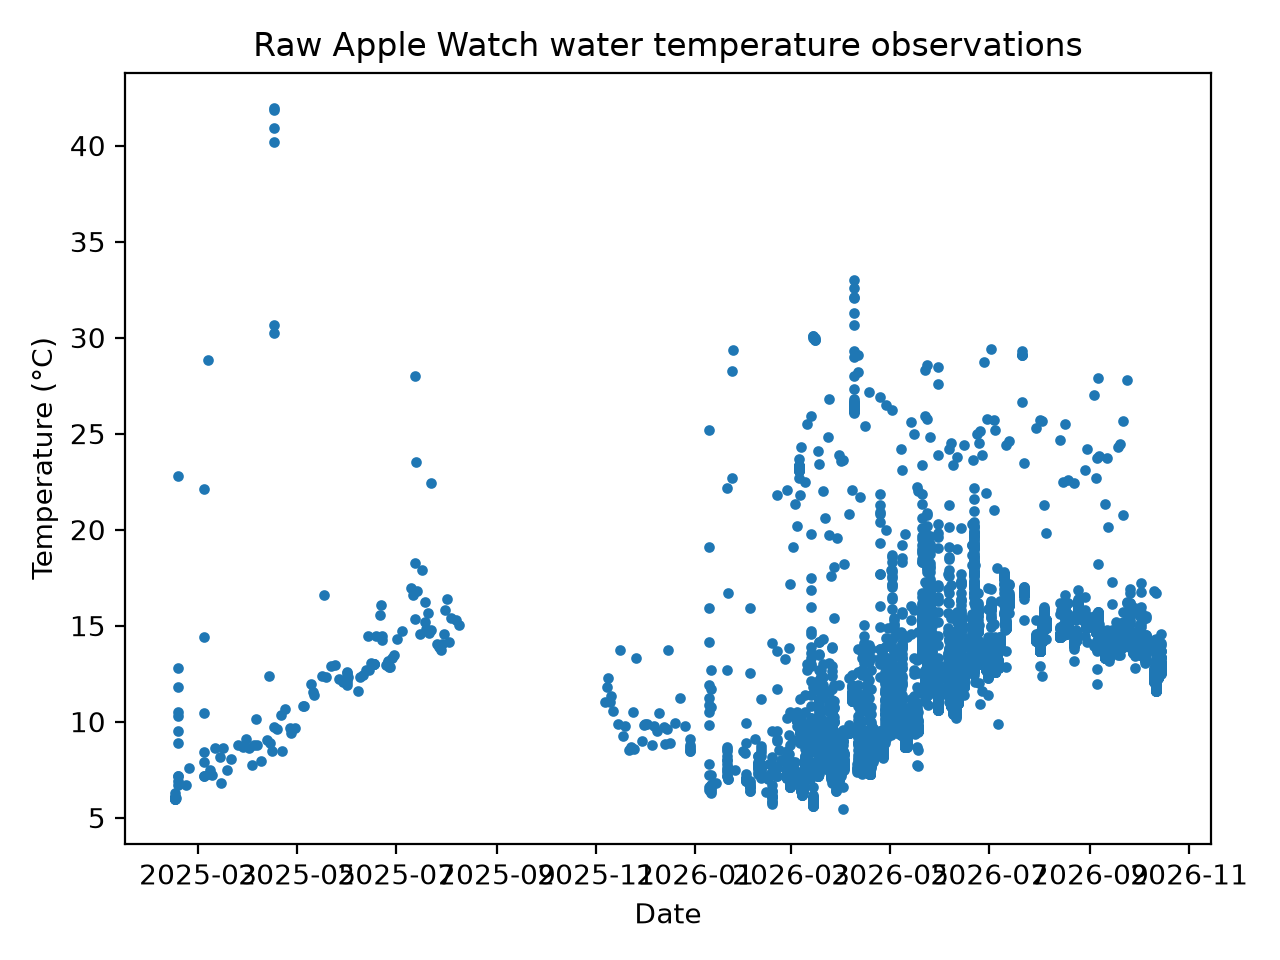
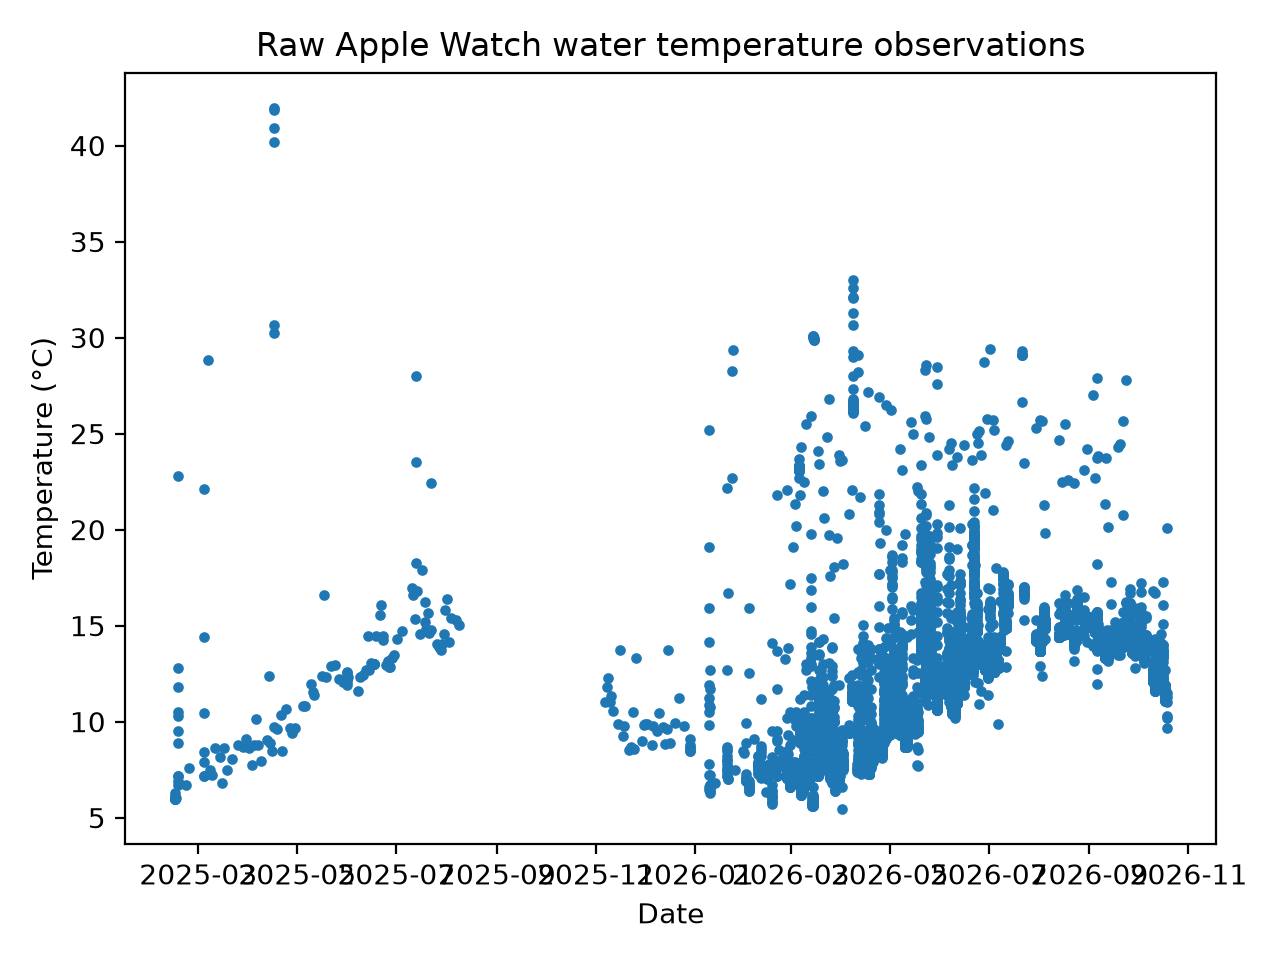
Add Apple Health merge step for smartwatch data and ipdate smartwatch report

diff --git a/smartwatch.html b/smartwatch.html
@@ -65,12 +65,12 @@ a {
 <h2>Dataset overview</h2>
 <table>
 <tr><th>Metric</th><th>Value</th></tr>
-<tr><td>Raw water temperature observations</td><td>9,477</td></tr>
-<tr><td>Observation period</td><td>2025-02-14 to 2026-10-14</td></tr>
-<tr><td>Sessions using 30-minute gap rule</td><td>315</td></tr>
+<tr><td>Raw water temperature observations</td><td>9,630</td></tr>
+<tr><td>Observation period</td><td>2025-02-14 to 2026-10-18</td></tr>
+<tr><td>Sessions using 30-minute gap rule</td><td>318</td></tr>
 <tr><td>Single-observation sessions</td><td>134</td></tr>
 <tr><td>Short sessions, 2–4 readings</td><td>12</td></tr>
-<tr><td>Continuous sessions, 5+ readings</td><td>169</td></tr>
+<tr><td>Continuous sessions, 5+ readings</td><td>172</td></tr>
 </table>
 </div>
 
@@ -78,17 +78,17 @@ a {
 <h2>Key findings</h2>
 
 <ul>
-<li><strong>9,477</strong> smartwatch water temperature observations were analysed.</li>
-<li>These observations formed <strong>315</strong> swim sessions using a 30-minute gap rule.</li>
-<li><strong>169 sessions (53.7%)</strong> contained five or more readings and provide sufficient observations to investigate stable temperature plateau detection. </li>
+<li><strong>9,630</strong> smartwatch water temperature observations were analysed.</li>
+<li>These observations formed <strong>318</strong> swim sessions using a 30-minute gap rule.</li>
+<li><strong>172 sessions (54.1%)</strong> contained five or more readings and provide sufficient observations to investigate stable temperature plateau detection. </li>
 <li>The median sampling interval was <strong>17.0 seconds</strong>, providing high temporal resolution within sessions.</li>
 <li>The data support deriving <strong>one representative temperature per swim session</strong>, rather than treating observations as independent temperature measurements.</li>
 </ul>
 
 <table>
 <tr><th>Finding</th><th>Value</th></tr>
-<tr><td>Average readings per session</td><td>30.1</td></tr>
-<tr><td>Readings ≥20°C</td><td>377 (4.0%)</td></tr>
+<tr><td>Average readings per session</td><td>30.3</td></tr>
+<tr><td>Readings ≥20°C</td><td>378 (3.9%)</td></tr>
 <tr><td>Readings ≥25°C</td><td>160 (1.7%)</td></tr>
 </table>
 
@@ -101,7 +101,7 @@ a {
 <tr><th>Metric</th><th>Value</th></tr>
 <tr><td>Minimum recorded temperature</td><td>5.46°C</td></tr>
 <tr><td>Maximum recorded temperature</td><td>41.97°C</td></tr>
-<tr><td>Readings ≥20°C</td><td>377</td></tr>
+<tr><td>Readings ≥20°C</td><td>378</td></tr>
 <tr><td>Readings ≥25°C</td><td>160</td></tr>
 </table>
 <img src="reports/charts/raw_temperature_observations.png" alt="Raw smartwatch water temperature observations">
@@ -112,7 +112,7 @@ a {
 <table>
 <tr><th>Metric</th><th>Value</th></tr>
 <tr><td>Median sampling interval</td><td>17.0 seconds</td></tr>
-<tr><td>Within-session intervals</td><td>9,162</td></tr>
+<tr><td>Within-session intervals</td><td>9,312</td></tr>
 </table>
 <img src="reports/charts/sampling_intervals.png" alt="Sampling interval distribution">
 </div>
@@ -122,8 +122,8 @@ a {
 
 <table>
 <tr><th>Metric</th><th>Value</th></tr>
-<tr><td>Median duration</td><td>8.0 minutes</td></tr>
-<tr><td>75th percentile</td><td>20.1 minutes</td></tr>
+<tr><td>Median duration</td><td>8.2 minutes</td></tr>
+<tr><td>75th percentile</td><td>20.2 minutes</td></tr>
 <tr><td>95th percentile</td><td>31.8 minutes</td></tr>
 </table>
 
@@ -168,14 +168,14 @@ above are excluded before this analysis.
 
 <table>
 <tr><th>Metric</th><th>Value</th></tr>
-<tr><td>Sessions analysed for stability</td><td>165</td></tr>
-<tr><td>Sessions with provisional stable window</td><td>140 (84.8%)</td></tr>
+<tr><td>Sessions analysed for stability</td><td>168</td></tr>
+<tr><td>Sessions with provisional stable window</td><td>142 (84.5%)</td></tr>
 <tr><td>Median time to first stable window</td><td>2.9 minutes</td></tr>
-<tr><td>75th percentile time to stability</td><td>5.9 minutes</td></tr>
+<tr><td>75th percentile time to stability</td><td>6.1 minutes</td></tr>
 <tr><td>90th percentile time to stability</td><td>8.8 minutes</td></tr>
 <tr><td>Median rolling 5-reading range</td><td>0.21°C</td></tr>
 <tr><td>75th percentile rolling range</td><td>0.50°C</td></tr>
-<tr><td>90th percentile rolling range</td><td>1.43°C</td></tr>
+<tr><td>90th percentile rolling range</td><td>1.48°C</td></tr>
 </table>
 
 <img src="reports/charts/first_stable_minute.png" alt="Time to first stable temperature window">
